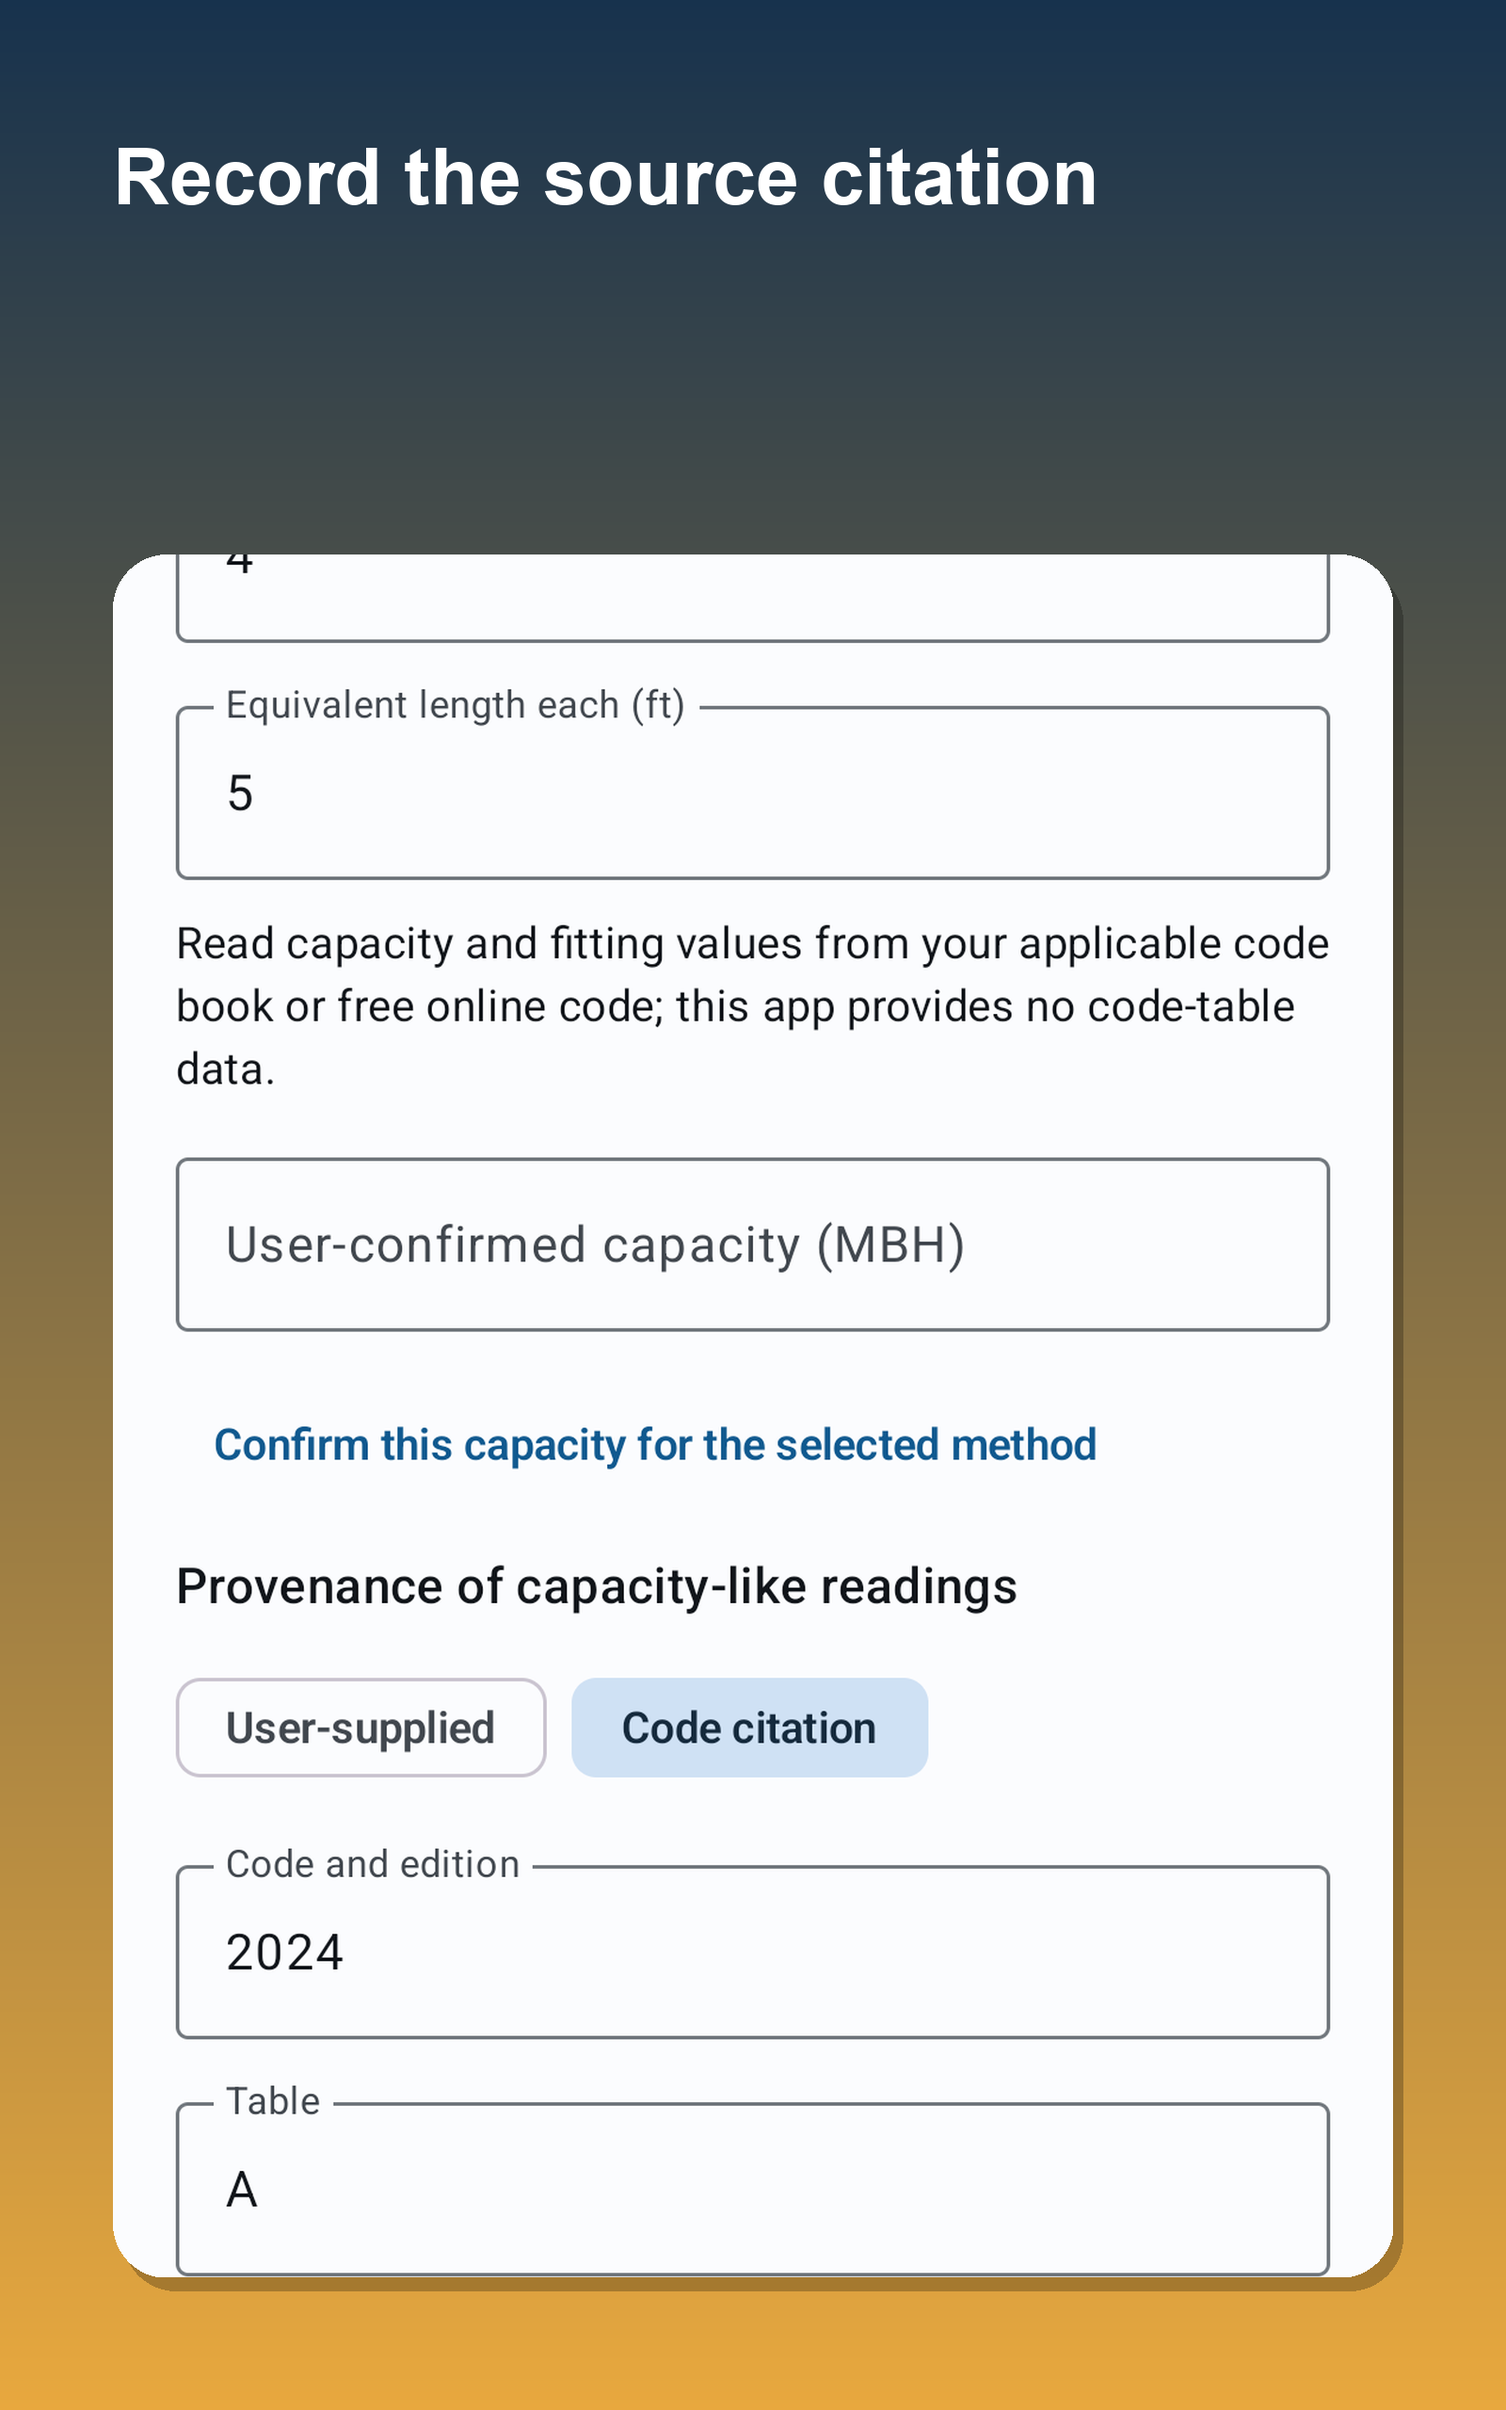
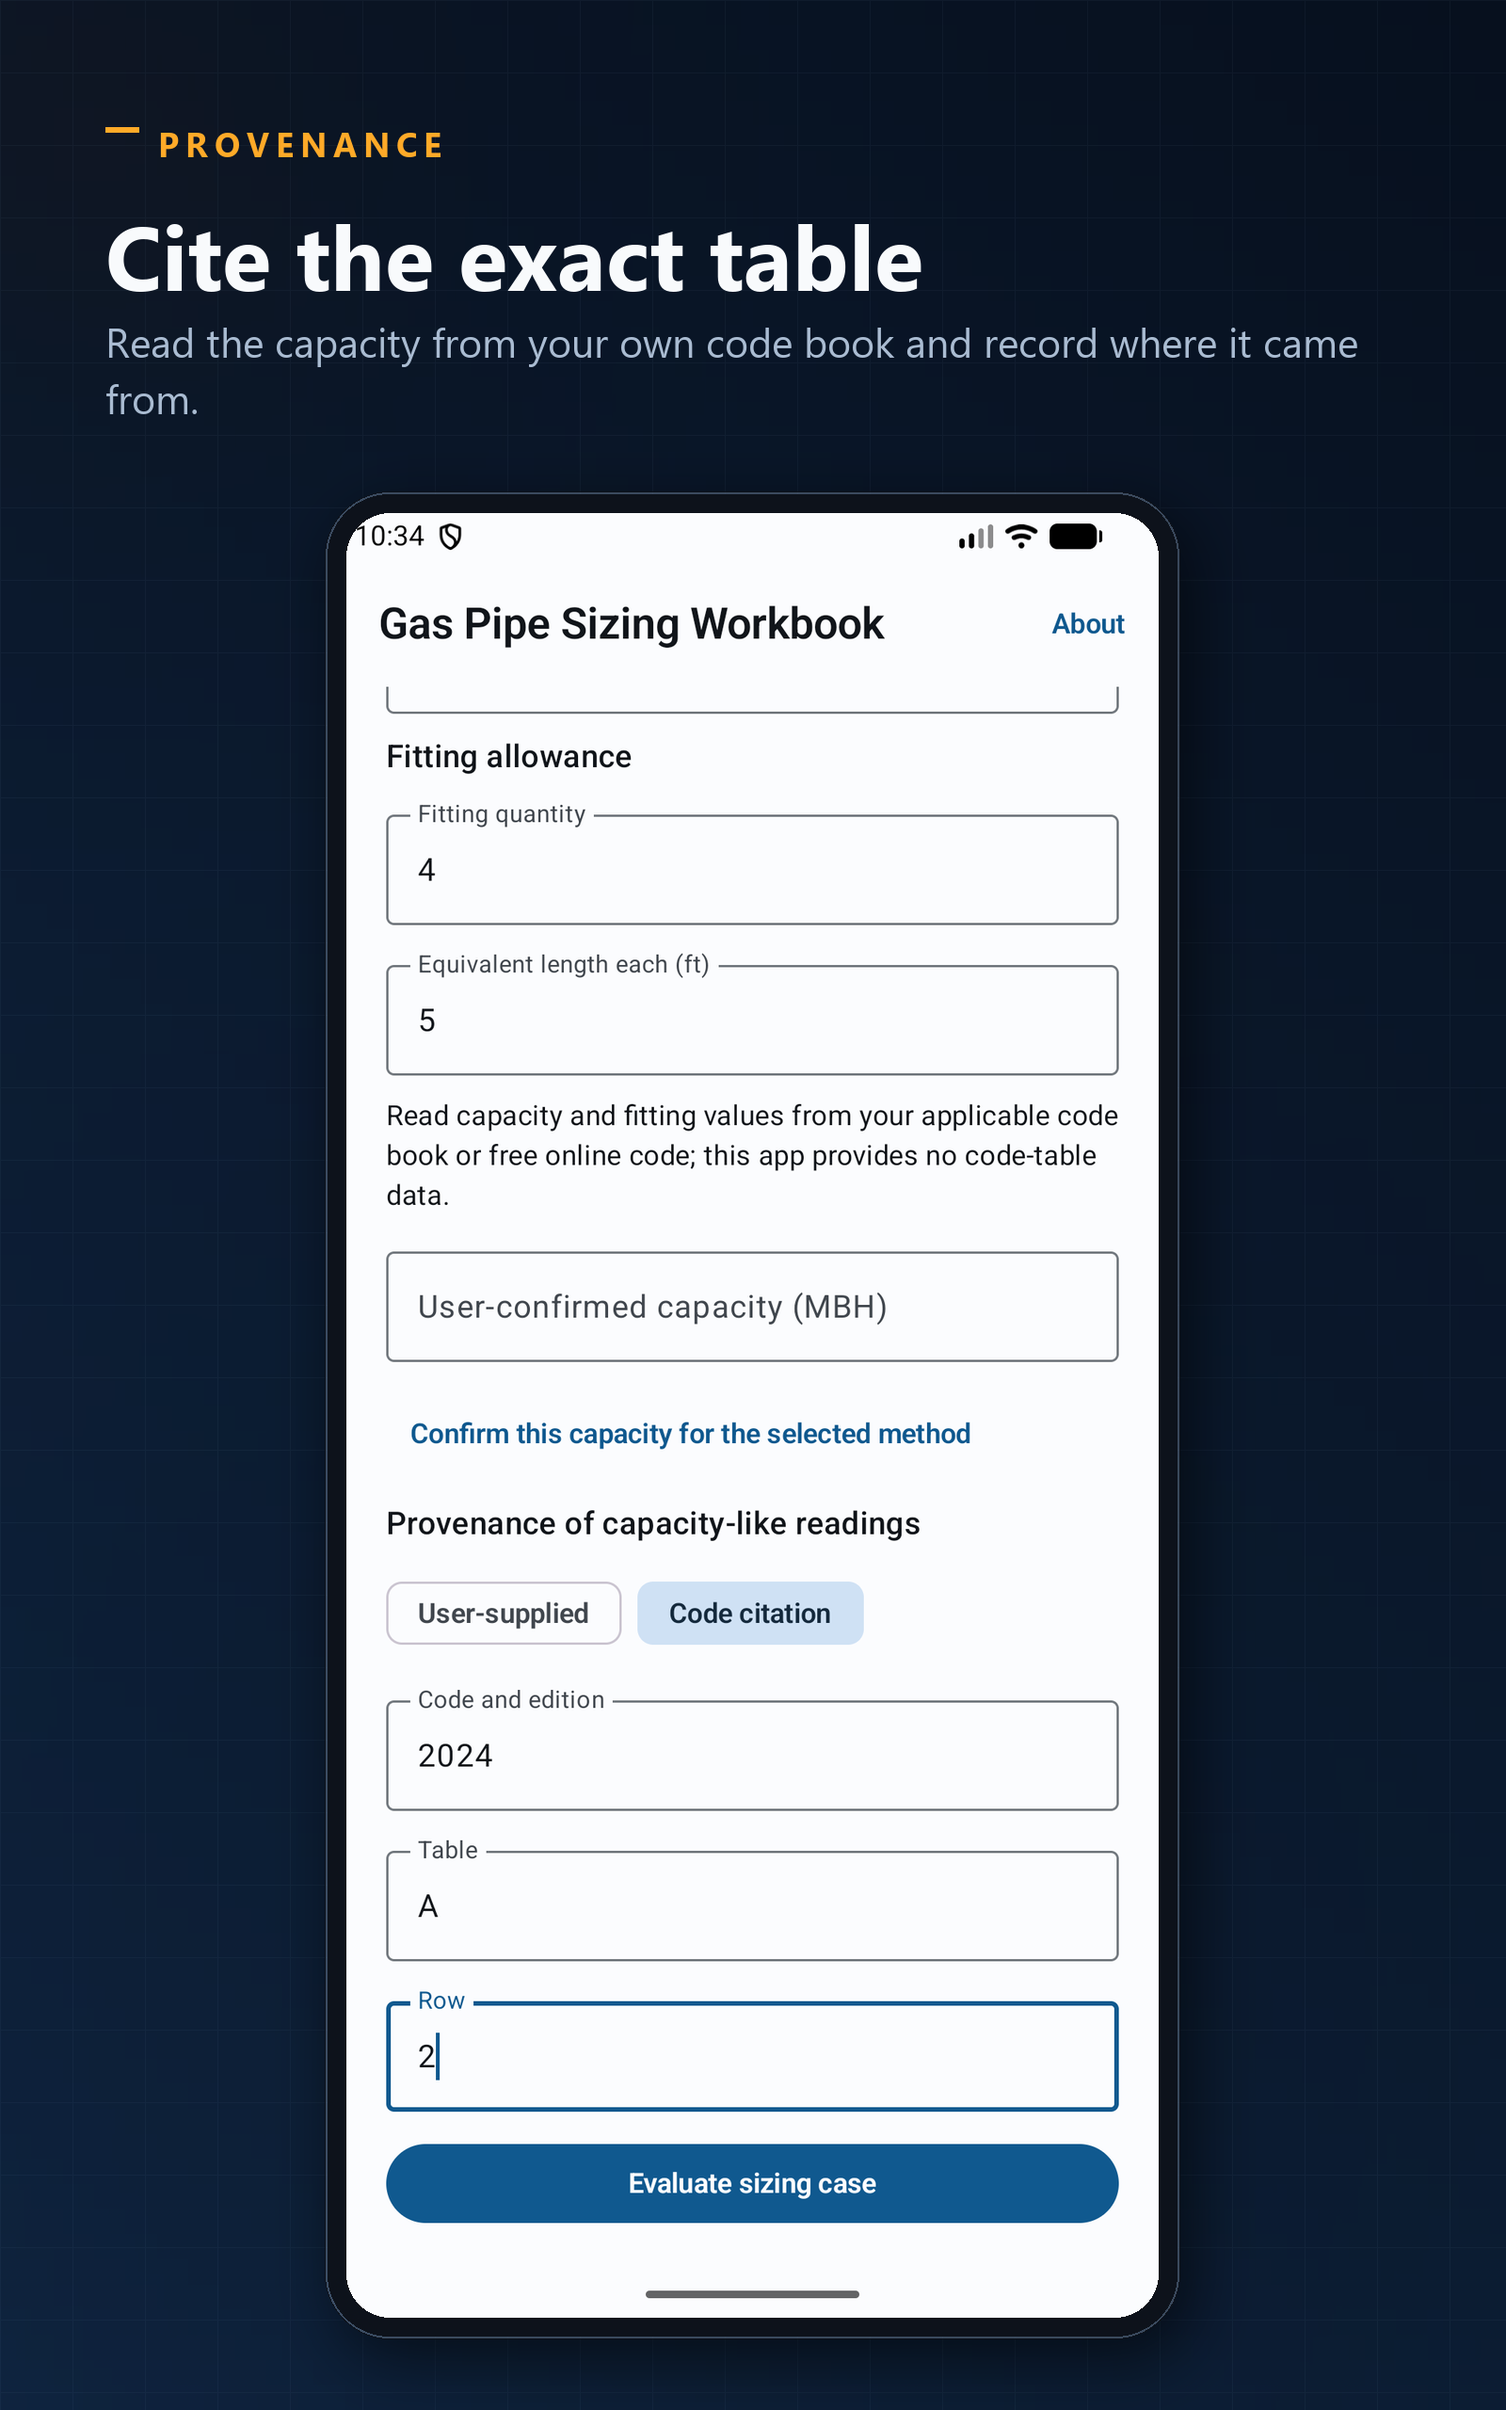
Fix the studio delegation, which had silently reverted the new visuals
load_studio_renderer did 'import store_studio', and scripts/store-studio.py has
a hyphen, so the import could never succeed. Every store-kit render therefore
fell back to the generic renderer - and a capture run re-renders through
store-kit, so a fresh capture replaced the composed assets with the old
screencap-in-a-rounded-rectangle set. A comment in that same function claimed a
silent degradation was impossible; it was the actual behaviour.

Two more defects fell out of fixing it:

- load by path via importlib, and raise StoreKitError instead of degrading: a
  slot that declares studio.json must never get generic assets while its
  graphics.md describes composed ones
- render_slot takes the slot dir (it writes the app's icon vectors too), but
  render_all passed the store dir, so it looked for store/store/listing.json

Also closes the icon-mode hole: the studio saved the icon as RGB while
store-kit validates RGBA, and graphics.md asserted RGBA. The icon is now saved
RGBA - full-bleed, so alpha is uniform and nothing is transparent.

graphics.md is now generated by the same condition that picks the renderer, so
the inventory cannot describe a pack that does not exist; its RGBA-vs-RGB and
provenance claims are true for both paths.

Verified: store-kit render composes (feature graphic 94 KB, not 30 KB);
store-kit --validate-only OK; verify-slot --strict-store --build PASS, which
also compiles the adaptive-icon vectors and so proves their pathData is valid;
[…]

diff --git a/scripts/store-kit.py b/scripts/store-kit.py
@@ -11,6 +11,7 @@ from __future__ import annotations
 import argparse
 import hashlib
 import html
+import importlib.util
 import json
 import os
 from pathlib import Path
@@ -1090,20 +1091,47 @@ Version reviewed: `{meta['version_name']}` (code `{meta['version_code'] or 'not 
     write_preserving(store / "review-notes.md", review, REVIEW_NOTES_MARKER)
 
     status = "synthetic — replace with real captures before publish" if synthetic else "framed from real device captures"
+    # A slot with store/studio.json has its media rendered by scripts/store-studio.py, which
+    # composes marketing images rather than pasting the capture into a rounded rectangle. The
+    # generic inventory below would describe a pack that no longer exists - it was describing
+    # RGBA-vs-RGB and "framed captures" for an asset set that is composed - so the inventory is
+    # written by the same condition that decides which renderer runs.
+    studio_rendered = (store / "studio.json").is_file()
+    if studio_rendered:
+        status = "real device captures, composed by `scripts/store-studio.py`"
+        provenance = f"""## How these are produced
+
+`scripts/store-studio.py` renders all of them. The screen inside every mock-up is a real capture of
+the signed release build, taken by `scripts/media-capture.mjs` from `journey.json` and stored under
+`captures/raw/`; the studio adds the branded field, the device bezel, and the headline. It invents no
+UI and never redraws the captured screen. Re-run it after changing the palette, or after a new
+capture: `python scripts/store-studio.py --slot {listing['slug']}`.
+
+## Large-screen assets are framed phone captures
+
+The tablet assets are framed from the **phone** captures rather than captured on a tablet device: no
+tablet AVD exists on this machine. Play treats large-screen assets as a claim about the large-screen
+experience, so the distinction is stated here rather than passed off as a tablet capture.
+
+The tablet sizes are 5:8, which is neither Play's 16:9 nor 9:16 large-screen aspect recommendation.
+That is a known factory-size choice, recorded in `AGENTS.md`.
+"""
+    else:
+        provenance = """Every locale folder also contains its own icon and feature graphic. The feature graphic keeps titles and taglines inside a generous safe area because Play may crop edges on some surfaces.
+"""
     graphics = f"""# Graphics inventory — {listing['appName']}
 
 Screenshot source status: **{status}**.
 
 | Asset | Dimensions | Format / purpose |
 |---|---:|---|
-| `assets/icon-512.png` | 512×512 | RGBA Play store icon; rectangular source artwork with nontransparent corners |
+| `assets/icon-512.png` | 512×512 | RGBA Play store icon; full-bleed and opaque, no transparent padding |
 | `assets/feature-graphic-1024x500.png` | 1024×500 | RGB feature graphic |
 | `assets/<locale>/phone-01..06.png` | 1080×1920 | RGB phone screenshots |
 | `assets/<locale>/tablet-7-01..04.png` | 1200×1920 | RGB 7-inch tablet screenshots |
 | `assets/<locale>/tablet-10-01..04.png` | 1600×2560 | RGB 10-inch tablet screenshots |
 
-Every locale folder also contains its own icon and feature graphic. The feature graphic keeps titles and taglines inside a generous safe area because Play may crop edges on some surfaces.
-
+{provenance}
 Four screenshots are supplied for both tablet formats. This satisfies the large-format eligibility asset count; eligibility also depends on the app's actual large-screen quality and Play requirements at submission time.
 """
     (store / "graphics.md").write_text(graphics, encoding="utf-8")
@@ -1240,7 +1268,9 @@ def render_all(store: Path, listing: dict[str, Any], locales: list[str], meta: d
     # capture run - a fresh capture must still produce fresh assets.
     studio = load_studio_renderer(store)
     if studio is not None:
-        studio(store)
+        # The studio takes the slot directory (it also writes the app's adaptive-icon vectors),
+        # while render_all is handed the store directory.
+        studio(store.parent)
         write_documents(store, listing, locales, False, meta)
         return
     assets = store / "assets"
@@ -1260,19 +1290,28 @@ def render_all(store: Path, listing: dict[str, Any], locales: list[str], meta: d
 def load_studio_renderer(store: Path) -> Callable[[Path], None] | None:
     """Return the studio's slot renderer when this slot opted in, else ``None``.
 
-    Import failures are reported rather than swallowed: a slot that asked for the composed
-    identity and silently got the plain renderer back would be a claim rendered untrue.
+    The studio lives in `scripts/store-studio.py`, whose hyphen makes it un-importable by name, so
+    it is loaded from its path. A failure here is raised rather than reported: a slot that declares
+    `studio.json` and silently got the generic renderer back would get generic assets while its
+    `graphics.md` describes composed ones, which is a claim rendered untrue. Failing closed leaves
+    the previous assets in place instead.
     """
     if not (store / "studio.json").is_file():
         return None
+    studio_path = Path(__file__).resolve().parent / "store-studio.py"
+    if not studio_path.is_file():
+        raise StoreKitError(f"{store / 'studio.json'} is declared but {studio_path} does not exist")
+    spec = importlib.util.spec_from_file_location("store_studio", studio_path)
+    if spec is None or spec.loader is None:
+        raise StoreKitError(f"cannot load {studio_path}")
+    module = importlib.util.module_from_spec(spec)
     try:
-        import store_studio  # type: ignore[import-not-found]
-    except ImportError as error:
-        print(f"WARN: {store.name} declares studio.json but store-studio.py is not importable ({error})")
-        return None
+        spec.loader.exec_module(module)
+    except Exception as error:  # noqa: BLE001 - any load failure must stop the render
+        raise StoreKitError(f"{studio_path} failed to load: {error!r}") from error
 
     def render(slot_dir: Path) -> None:
-        store_studio.render_slot(slot_dir)
+        module.render_slot(slot_dir)
 
     return render
 

diff --git a/scripts/store-studio.py b/scripts/store-studio.py
@@ -591,8 +591,11 @@ def render_slot(slot: Path, *, preview_circle: bool = False) -> None:
     icon_targets = [assets / "icon-512.png", assets / "en-US" / "icon-512.png"]
     for target in icon_targets:
         target.parent.mkdir(parents=True, exist_ok=True)
-        icon.save(target, format="PNG", optimize=True, compress_level=9)
-        print(f"PASS studio - {target.relative_to(slot)} (512x512)")
+        # Saved as RGBA to match the mode store-kit validates and Play's expectation. The icon is
+        # full-bleed, so every pixel is opaque and the alpha channel is uniform - it carries no
+        # transparency, it just declares the channel.
+        icon.convert("RGBA").save(target, format="PNG", optimize=True, compress_level=9)
+        print(f"PASS studio - {target.relative_to(slot)} (512x512 RGBA)")
 
     sources = [load_raw(store, index) for index in range(1, 7)]
     feature_source = next((source for source in sources if source is not None), None)

diff --git a/apps/2026-09-25-pipe-sizing/store/graphics.md b/apps/2026-09-25-pipe-sizing/store/graphics.md
@@ -1,15 +1,30 @@
 # Graphics inventory — Gas Pipe Sizing Workbook
 
-Screenshot source status: **framed from real device captures**.
+Screenshot source status: **real device captures, composed by `scripts/store-studio.py`**.
 
 | Asset | Dimensions | Format / purpose |
 |---|---:|---|
-| `assets/icon-512.png` | 512×512 | RGBA Play store icon; rectangular source artwork with nontransparent corners |
+| `assets/icon-512.png` | 512×512 | RGBA Play store icon; full-bleed and opaque, no transparent padding |
 | `assets/feature-graphic-1024x500.png` | 1024×500 | RGB feature graphic |
 | `assets/<locale>/phone-01..06.png` | 1080×1920 | RGB phone screenshots |
 | `assets/<locale>/tablet-7-01..04.png` | 1200×1920 | RGB 7-inch tablet screenshots |
 | `assets/<locale>/tablet-10-01..04.png` | 1600×2560 | RGB 10-inch tablet screenshots |
 
-Every locale folder also contains its own icon and feature graphic. The feature graphic keeps titles and taglines inside a generous safe area because Play may crop edges on some surfaces.
+## How these are produced
+
+`scripts/store-studio.py` renders all of them. The screen inside every mock-up is a real capture of
+the signed release build, taken by `scripts/media-capture.mjs` from `journey.json` and stored under
+`captures/raw/`; the studio adds the branded field, the device bezel, and the headline. It invents no
+UI and never redraws the captured screen. Re-run it after changing the palette, or after a new
+capture: `python scripts/store-studio.py --slot pipe-sizing`.
+
+## Large-screen assets are framed phone captures
+
+The tablet assets are framed from the **phone** captures rather than captured on a tablet device: no
+tablet AVD exists on this machine. Play treats large-screen assets as a claim about the large-screen
+experience, so the distinction is stated here rather than passed off as a tablet capture.
+
+The tablet sizes are 5:8, which is neither Play's 16:9 nor 9:16 large-screen aspect recommendation.
+That is a known factory-size choice, recorded in `AGENTS.md`.
 
 Four screenshots are supplied for both tablet formats. This satisfies the large-format eligibility asset count; eligibility also depends on the app's actual large-screen quality and Play requirements at submission time.
